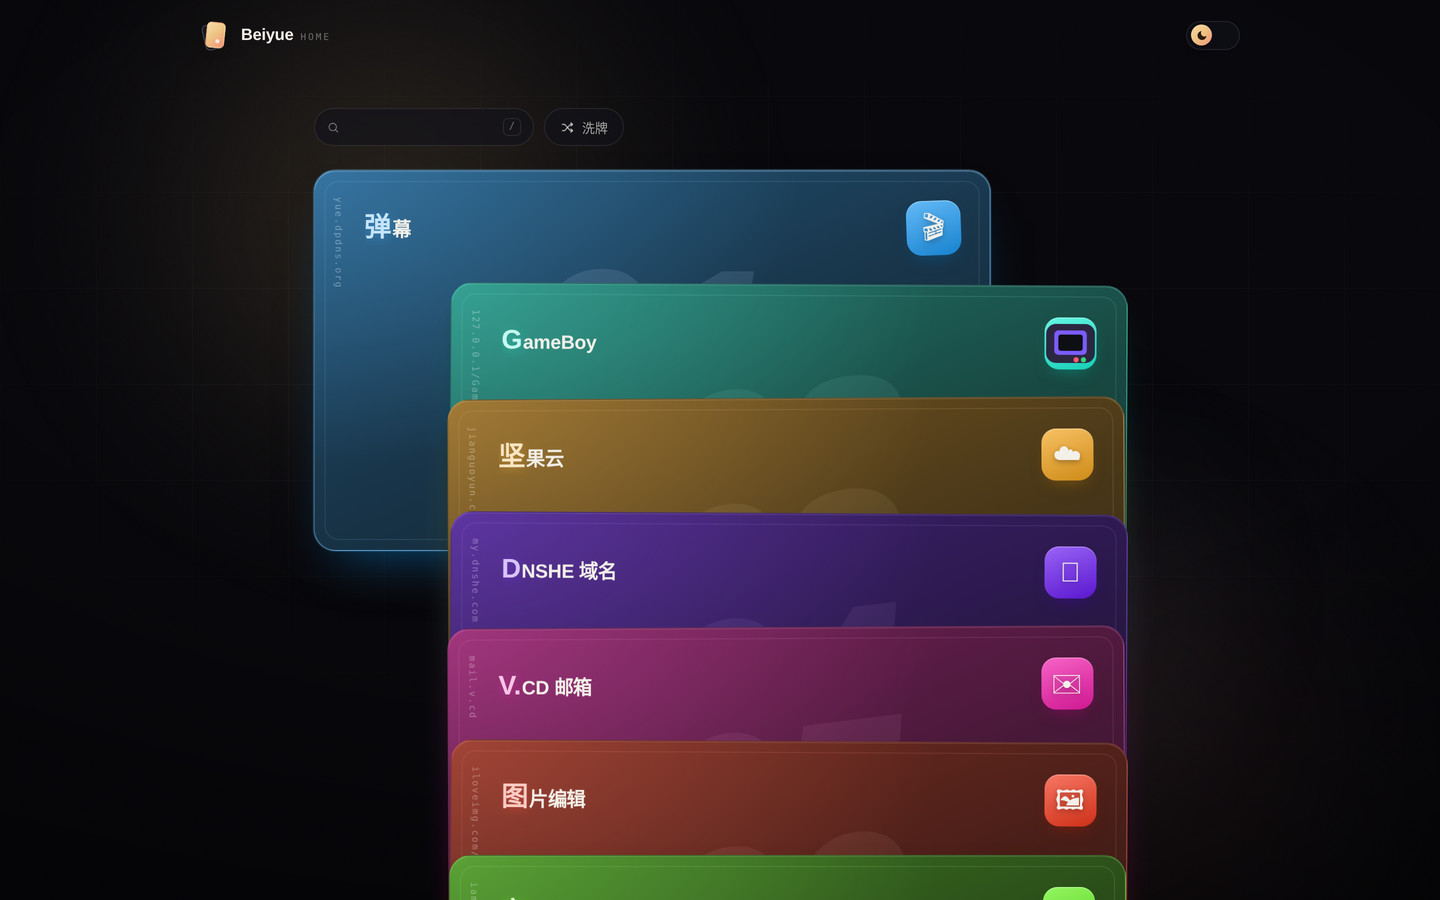
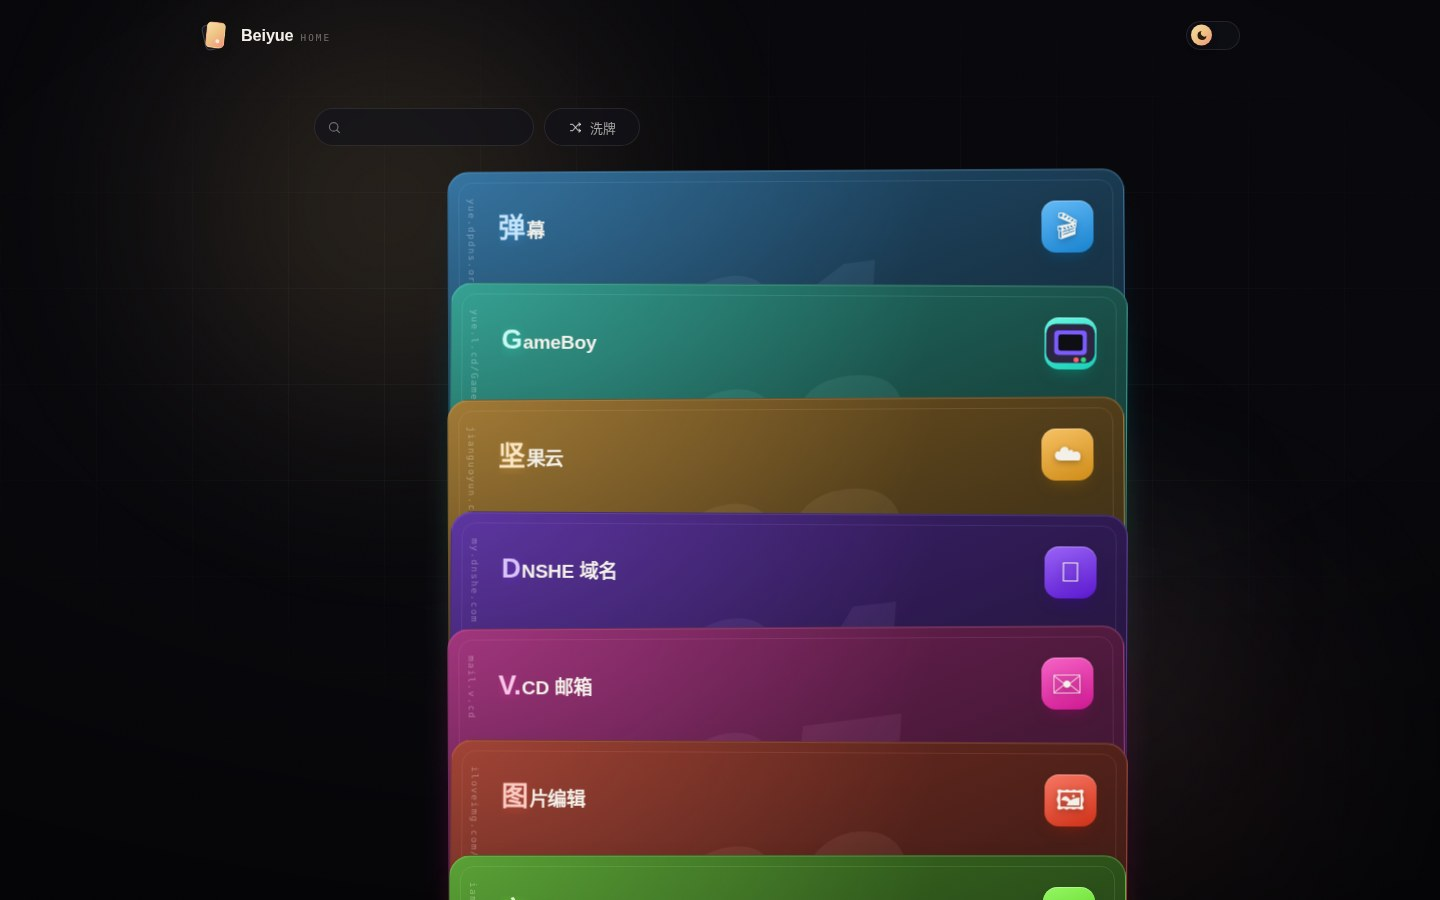
feat: no motion at all on narrow screens

diff --git a/README.md b/README.md
@@ -9,7 +9,7 @@ Vue 3 + Vite，无 UI 框架，样式手写。
 - **牌堆**：纵向叠放，卡片占容器 5/6 宽、左侧留出 1/6 车道；每张只露顶部一条（名称 + 图标），最后一张整张露出，牌心是淡编号
 - **抽出**：悬停或键盘聚焦时整张牌向左抽出 20% 卡宽，正好填满车道；纵向不动，所以不会遮住上下邻居
 - **搜索 / 洗牌**：`/` 聚焦、`Esc` 清空，按名称、英文名、分类、简介过滤；洗牌按钮在搜索框右侧，打乱牌序并重播发牌动画
-- **响应式**：≥720px 是 16:9 横卡 + 左侧车道；窄屏是 9:16 竖卡，悬停改为轻抬
+- **响应式**：≥720px 是 16:9 横卡 + 左侧车道；窄屏是 9:16 竖卡，只保留进场发牌动画，悬停与按下都不位移
 - **主题**：深色 / 浅色，跟随系统，手动切换后记忆
 - **内置模拟器**：`/GameBoyLive/` 是一台跑在浏览器里的 GB / GBC / GBA，虚拟按键改成了 Switch Joy-Con 的左蓝右红
 
